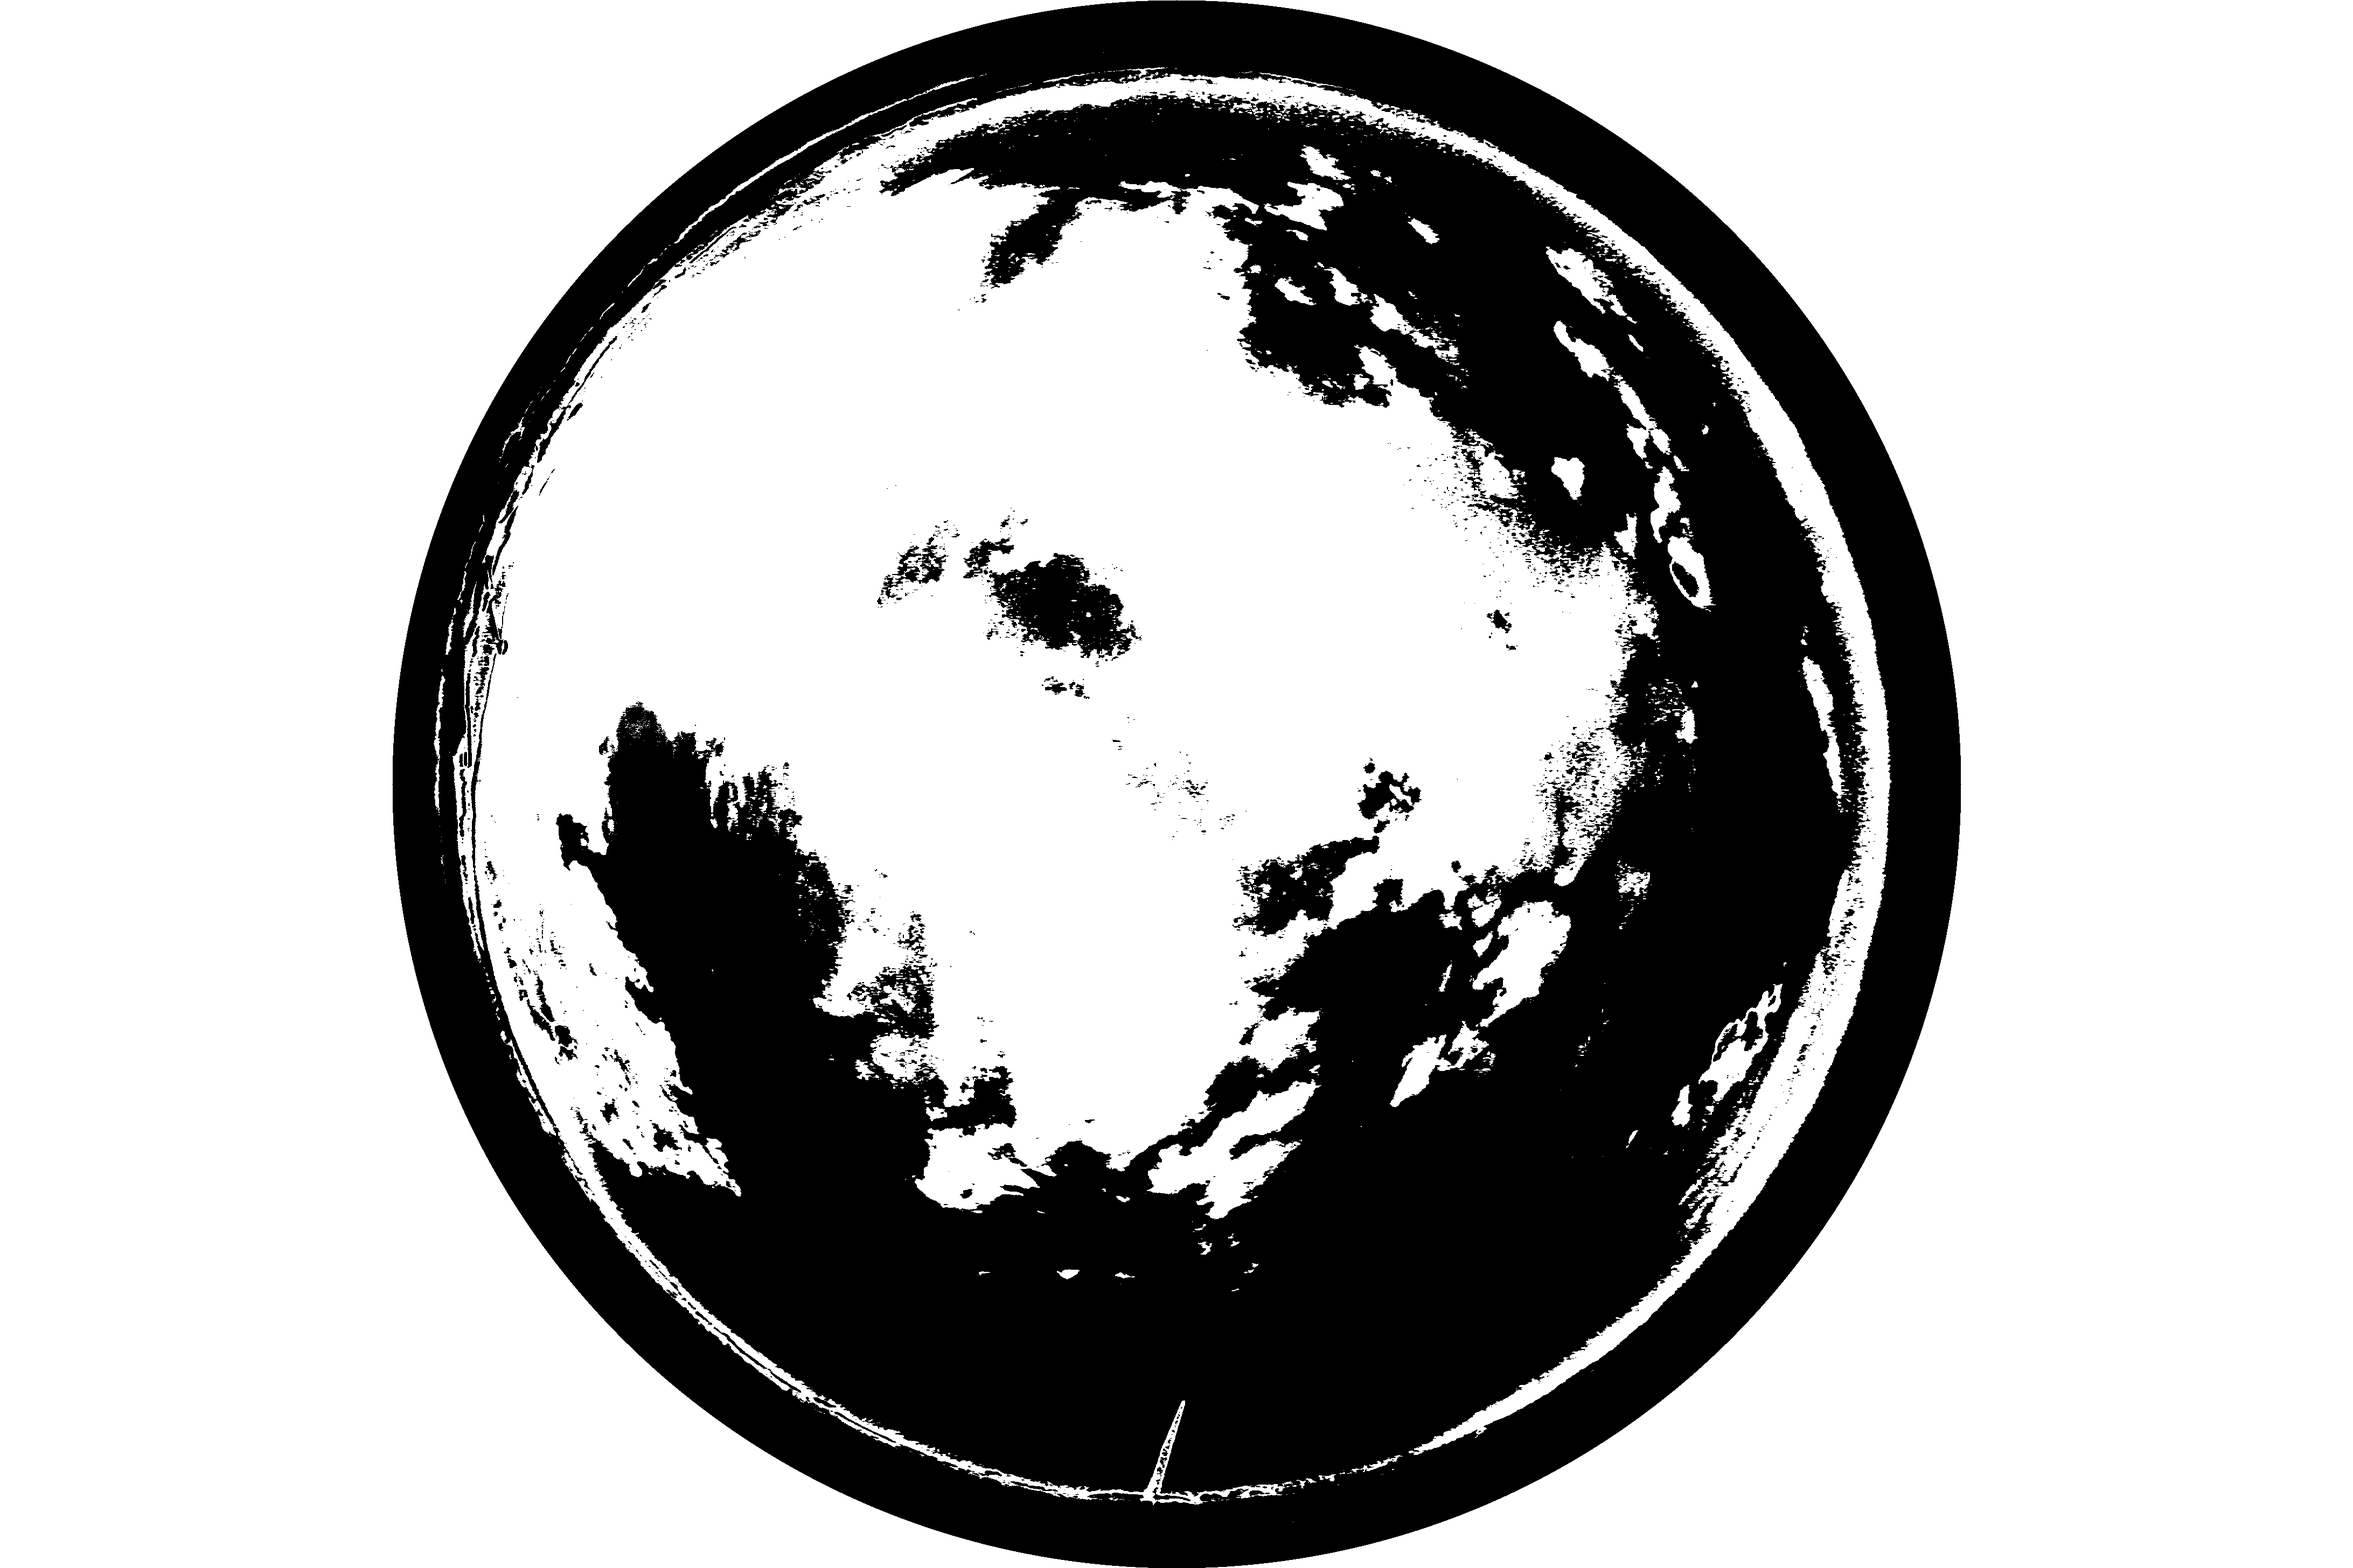
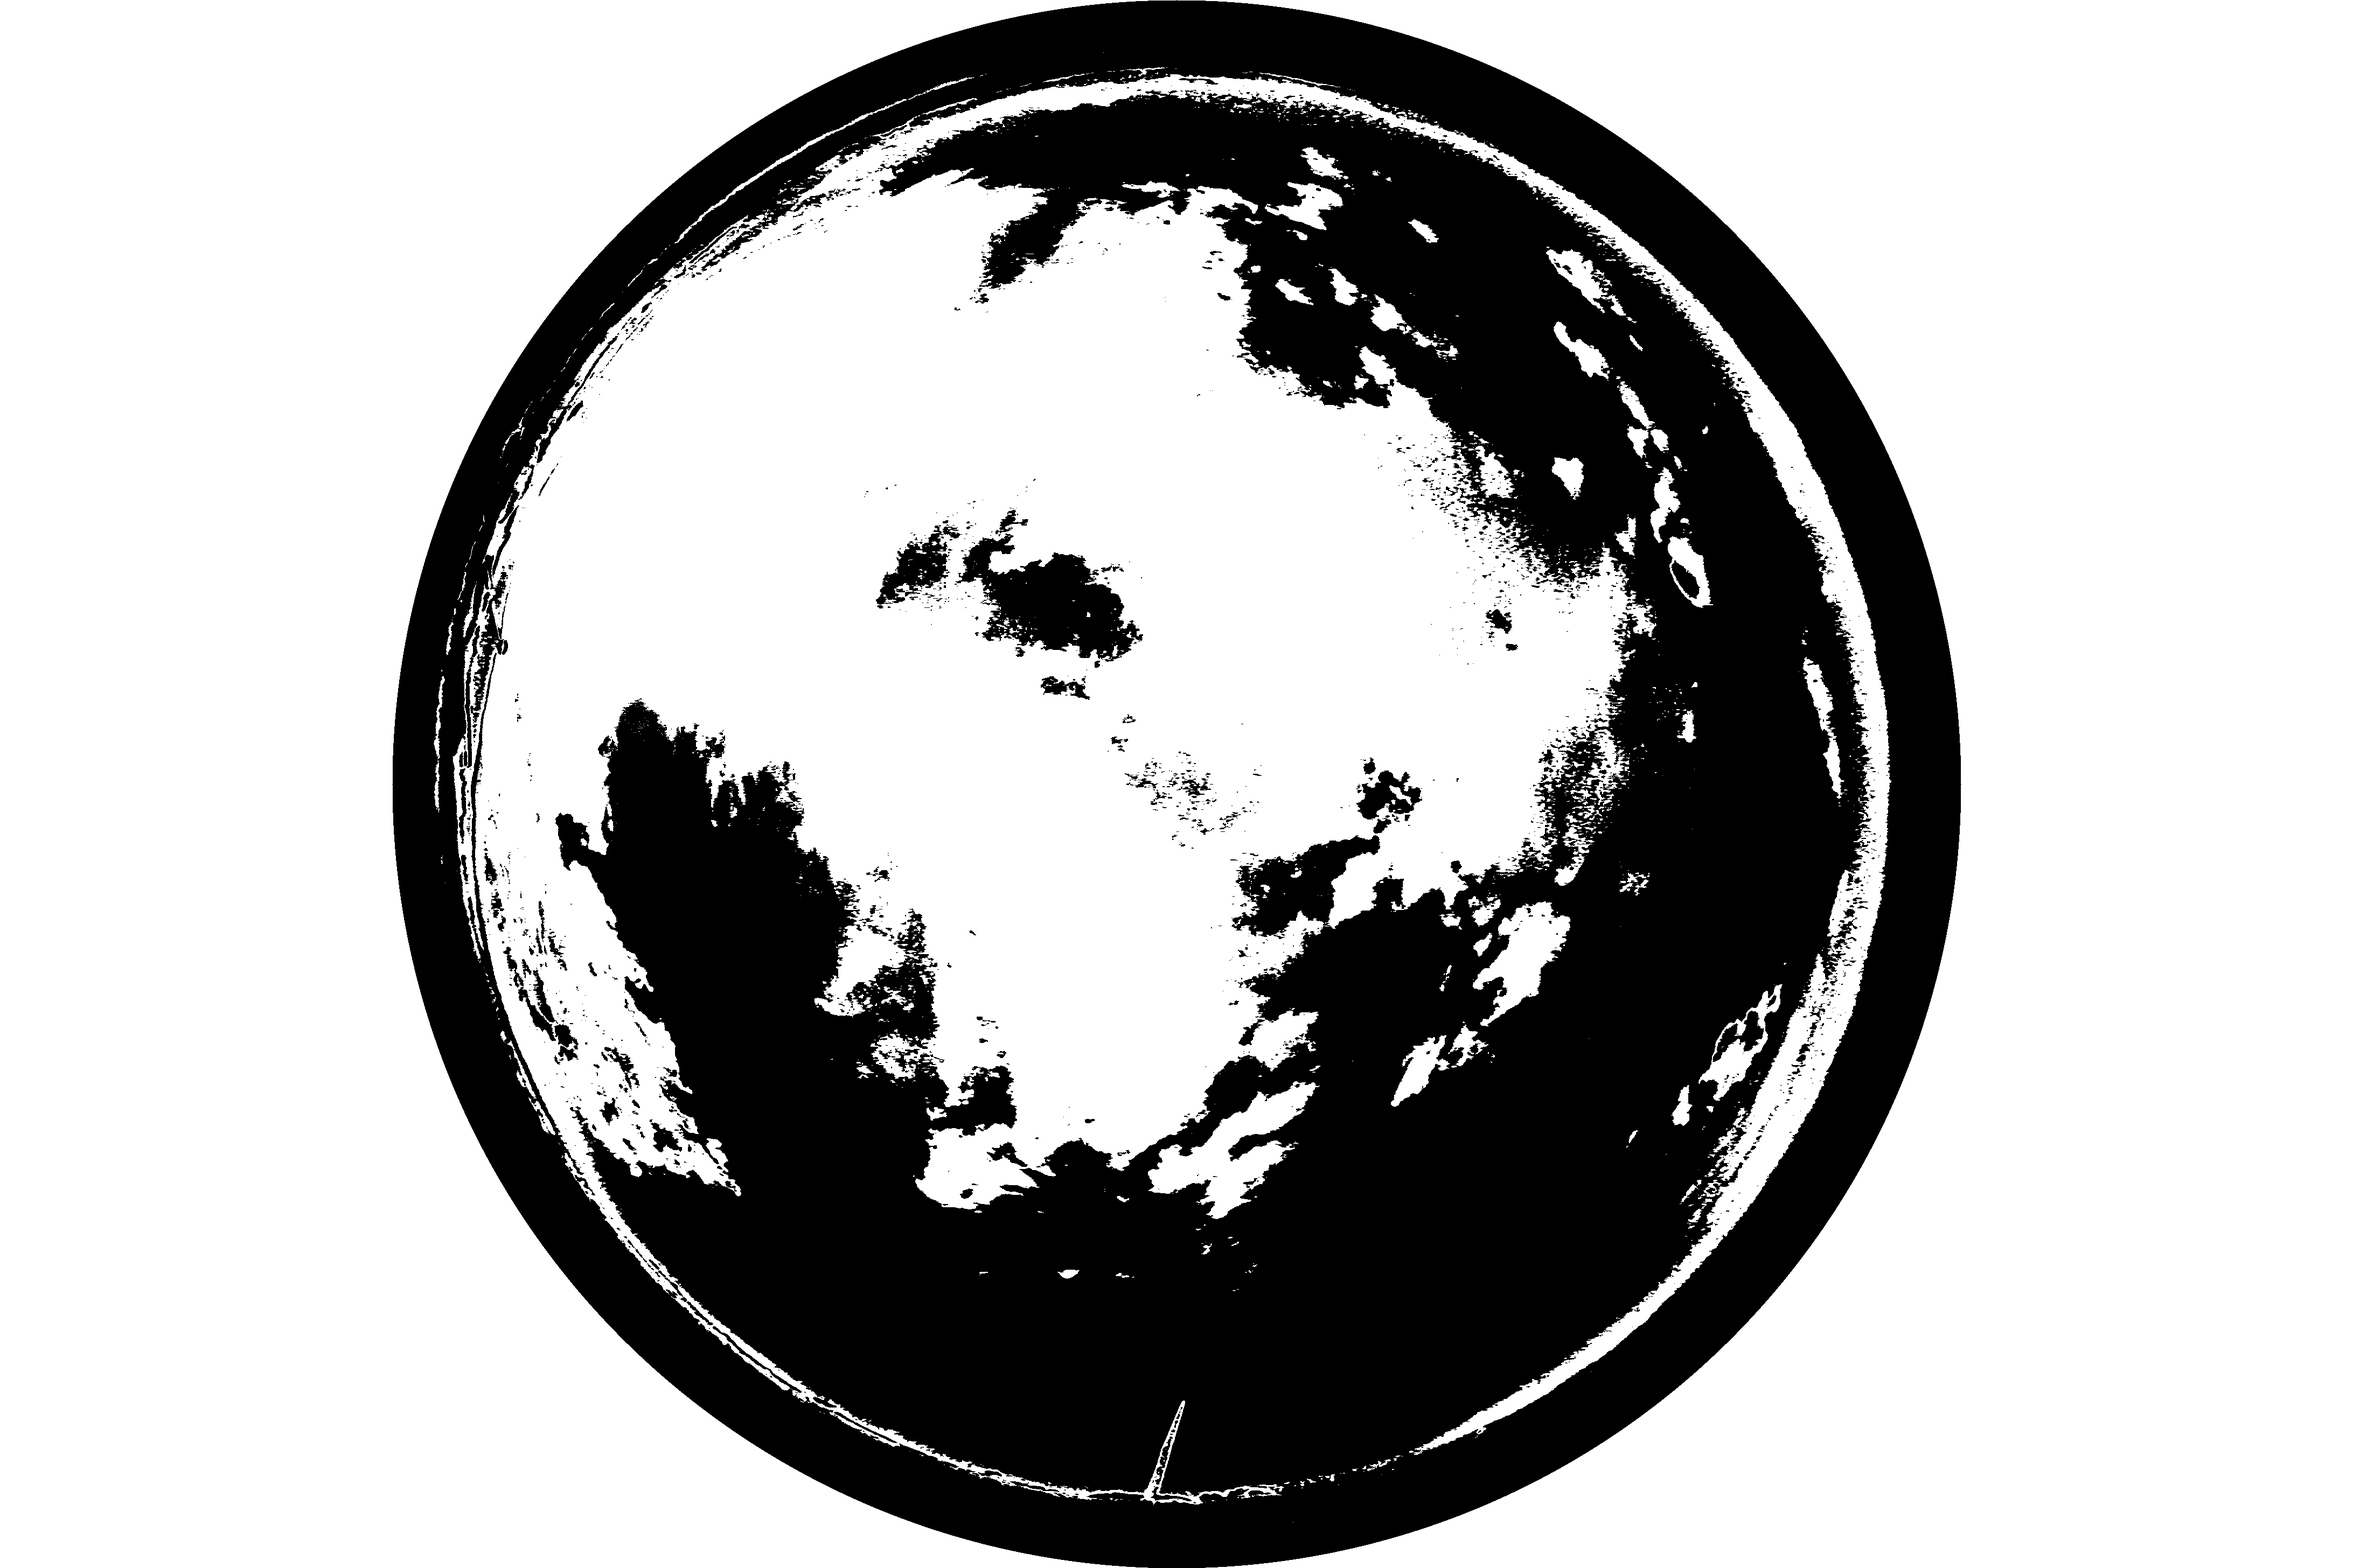
Pythoooon ya esta v2

diff --git a/algoritmoIN/Python/algoritmoIN.py b/algoritmoIN/Python/algoritmoIN.py
@@ -16,11 +16,11 @@ def calcular_indice_cobertura_nubosa(input_path, generar_imagen=False):
 
     brightness = circular_pixels[:, :3].mean(axis=1)
     saturation = np.ptp(circular_pixels[:, :3], axis=1)
-    is_cloud = (brightness > 50) & (saturation < 17) # ajustarrrr
+    is_cloud = (brightness > 50) & (saturation < 15) # ajustarrr
 
-    N = np.sum(is_cloud)  
-    C = circular_pixels.shape[0]  
-    cloud_coverage_index = (N / C * 100) if C > 0 else 0  # N/C
+    N = np.sum(is_cloud)  # pixeles nube
+    C = circular_pixels.shape[0] 
+    cloud_coverage_index = (N / C * 100) if C > 0 else 0  
 
     output_path = None
     if generar_imagen:
@@ -34,15 +34,17 @@ def calcular_indice_cobertura_nubosa(input_path, generar_imagen=False):
 
     return cloud_coverage_index, output_path
 
-# S para imagen 
-generar_imagen = len(sys.argv) > 1 and sys.argv[1].lower() == "s"
+if len(sys.argv) < 2:
+    print("Uso: python algoritmoIN.py <ruta_de_imagen> [S]")
+    sys.exit(1)
 
-# ruta de la imagen de entrada
-input_path = 'salida-limpio.png'
+input_path = sys.argv[1]
+generar_imagen = len(sys.argv) > 2 and sys.argv[2].lower() == "s"
 
 indice_cobertura, output_path = calcular_indice_cobertura_nubosa(input_path, generar_imagen)
-print(f"Porcentaje de Nubes: {indice_cobertura:.2f}%")
+print(f"Índice de cobertura nubosa: {indice_cobertura:.2f}%")
 
 if output_path:
     print(f"Imagen segmentada guardada en: {output_path}")
+
 
